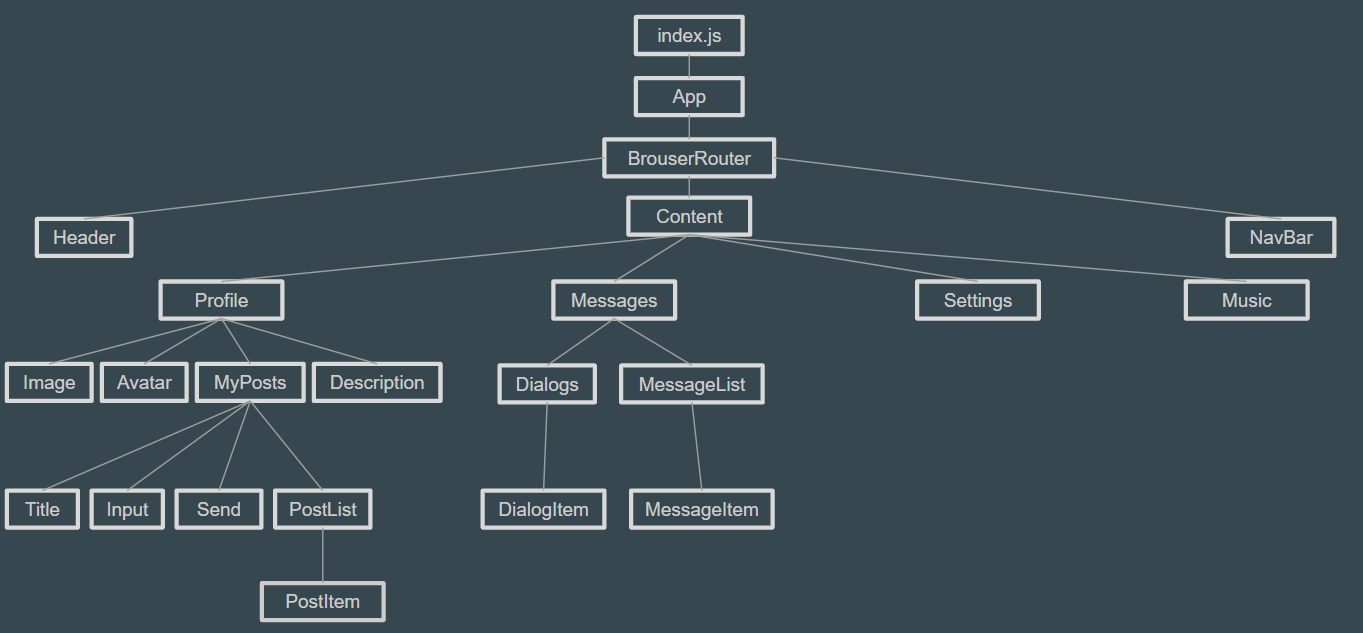
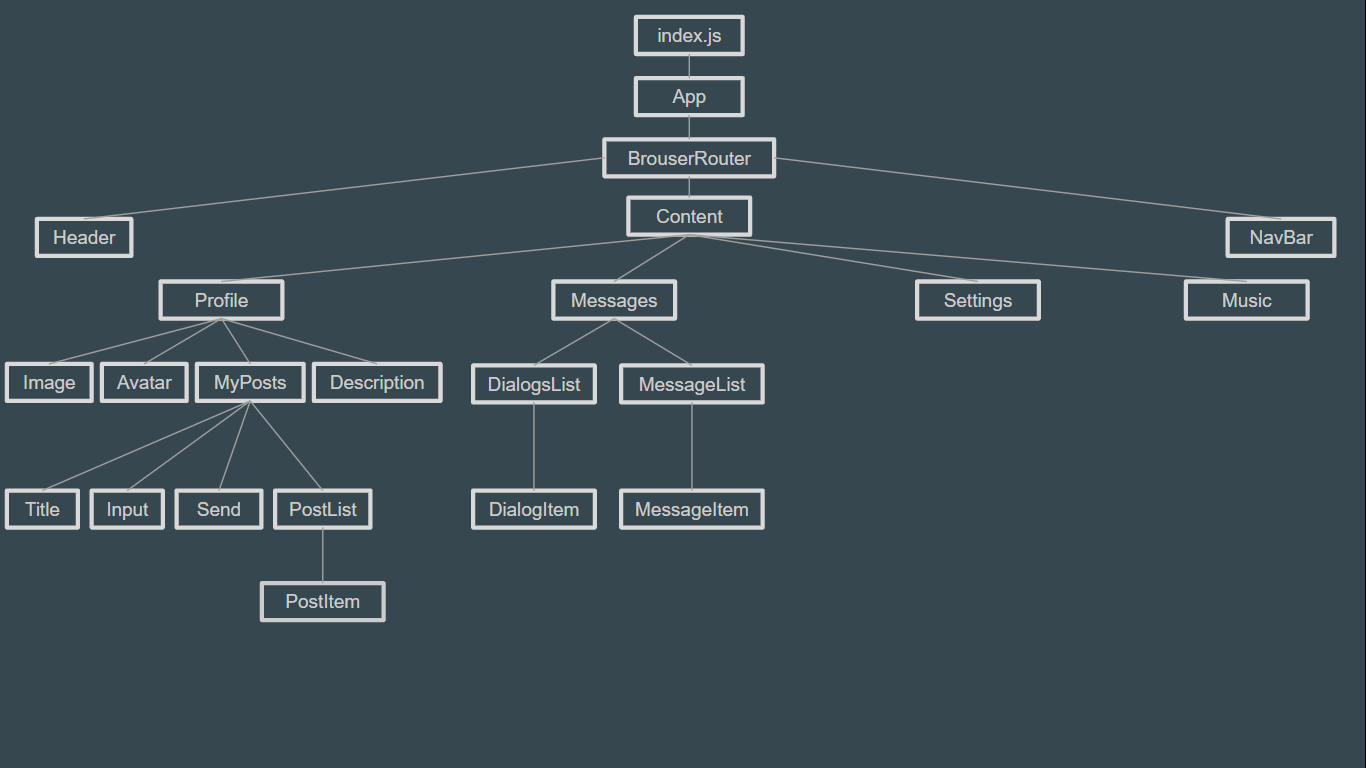
Move data to index.js

diff --git a/src/components/Content/Content.jsx b/src/components/Content/Content.jsx
@@ -1,20 +1,19 @@
 import React from "react"
 import m from "./Content.module.css"
-import Profile from "./Profile/Profile";
-import {Route} from "react-router-dom";
-import Dialogs from "./Messages/DialogsList/DialogsList";
-import Settings from "./Settings/Settings";
-import Music from "./Music/Music";
-import Messages from "./Messages/Messages";
+import Profile from "./Profile/Profile"
+import {Route} from "react-router-dom"
+import Settings from "./Settings/Settings"
+import Music from "./Music/Music"
+import Messages from "./Messages/Messages"
 
 
-const Content = () => {
+const Content = (props) => {
     return (
         <div className={m.content}>
-            <Route exact path='/profile' component={Profile}/>
-            <Route exact path='/messages' component={Messages}/>
-            <Route exact path='/settings' component={Settings}/>
-            <Route exact path='/music' component={Music}/>
+            <Route exact path='/profile' render={() => <Profile posts={props.posts}/>}/>
+            <Route exact path='/messages' render={() => <Messages dialogs={props.dialogs} messages={props.messages}/>}/>
+            <Route exact path='/settings' render={() => <Settings/>}/>
+            <Route exact path='/music' render={() => <Music/>}/>
         </div>
     )
 }

diff --git a/src/index.js b/src/index.js
@@ -1,12 +1,31 @@
-import React from 'react';
-import ReactDOM from 'react-dom';
-import './index.css';
-import App from './App';
-import * as serviceWorker from './serviceWorker';
+import React from 'react'
+import ReactDOM from 'react-dom'
+import './index.css'
+import App from './App'
+import * as serviceWorker from './serviceWorker'
 
-ReactDOM.render(<App />, document.getElementById('root'));
+let dialogsArr = [
+    {id: 1, name: 'Dima'},
+    {id: 2, name: 'Ilia'},
+    {id: 3, name: 'Maxik'},
+    {id: 4, name: 'Danik'},
+    {id: 5, name: 'Kiril'}
+]
+
+let messagesArr = [
+    {id: 1, message: 'Hello World'},
+    {id: 2, message: 'How are you?'},
+    {id: 3, message: 'What is your name?'}
+]
+
+let postsData = [
+    {id: 1, message: 'Hello World!!!'},
+    {id: 2, message: 'I am Dima Hinev'}
+]
+
+ReactDOM.render(<App dialogs={dialogsArr} messages={messagesArr} posts={postsData}/>, document.getElementById('root'))
 
 // If you want your app to work offline and load faster, you can change
 // unregister() to register() below. Note this comes with some pitfalls.
 // Learn more about service workers: https://bit.ly/CRA-PWA
-serviceWorker.unregister();
+serviceWorker.unregister()

diff --git a/src/components/Content/Profile/MyPosts/MyPosts.jsx b/src/components/Content/Profile/MyPosts/MyPosts.jsx
@@ -4,23 +4,16 @@ import PostItem from "./PostList/Post/PostItem";
 import Title from "./Title/Title";
 import Input from "./Input/Input";
 import Send from "./Send/Send";
+import PostList from './PostList/PostList'
 
-const MyPosts = () => {
-    let postsData = [
-        {id: 1, message: 'Hello World!!!'},
-        {id: 2, message: 'I am Dima Hinev'}
-    ]
-
-    let posts = postsData.map(
-        e => <PostItem message={e.message} id={e.id}/>
-    )
+const MyPosts = (props) => {
     return (
         <React.Fragment>
             <Title/>
             <Input/>
             <Send/>
             <div className={m.posts}>
-                {posts}
+               <PostList content={props.posts}/>
             </div>
         </React.Fragment>
     )

diff --git a/src/components/Content/Profile/Profile.jsx b/src/components/Content/Profile/Profile.jsx
@@ -1,17 +1,17 @@
 import React from "react"
-import MyPosts from "./MyPosts/MyPosts";
-import Image from "./Image/Image";
-import Avatar from "./Avatar/Avatar";
-import Description from "./Description/Description";
+import MyPosts from "./MyPosts/MyPosts"
+import Image from "./Image/Image"
+import Avatar from "./Avatar/Avatar"
+import Description from "./Description/Description"
 import m from './Profile.module.css'
 
-const Profile = () => {
+const Profile = (props) => {
     return (
         <div className={m.content}>
             <Image/>
             <Avatar/>
             <Description user_name='Dima Hinev'/>
-            <MyPosts/>
+            <MyPosts posts={props.posts}/>
         </div>
 
     )

diff --git a/src/App.js b/src/App.js
@@ -3,15 +3,15 @@ import "./App.css"
 import Header from "./components/Header/Header"
 import Navbar from "./components/Navbar/Navbar"
 import {BrowserRouter} from "react-router-dom"
-import Content from "./components/Content/Content";
+import Content from "./components/Content/Content"
 
-const App = () => {
+const App = (props) => {
     return (
         <BrowserRouter>
             <div className="App">
                 <Header/>
                 <Navbar/>
-                <Content/>
+                <Content dialogs={props.dialogs} messages={props.messages} posts={props.posts}/>
             </div>
         </BrowserRouter>
     )

diff --git a/src/components/Content/Messages/Messages.jsx b/src/components/Content/Messages/Messages.jsx
@@ -3,11 +3,13 @@ import m from './Messages.module.css'
 import {NavLink} from "react-router-dom";
 import Dialogs from "./DialogsList/DialogsList";
 import MessageList from "./MessageList/MessageList";
-const Messages = () => {
+import DialogItem from "./DialogsList/DialogItem/DialogItem";
+import MessageItem from "./MessageList/MessageItem/MessageItem";
+const Messages = (props) => {
     return (
         <div className={m.messages}>
-            <Dialogs/>
-            <MessageList/>
+            <Dialogs content={props.dialogs}/>
+            <MessageList content={props.messages}/>
         </div>
     )
 }

diff --git a/src/components/Content/Messages/DialogsList/DialogsList.jsx b/src/components/Content/Messages/DialogsList/DialogsList.jsx
@@ -3,17 +3,11 @@ import m from './DialogsList.module.css'
 import DialogItem from "./DialogItem/DialogItem";
 
 
-const Dialogs = () => {
-    let dialogsArr = [
-        {id: 1, name: 'Dima'},
-        {id: 2, name: 'Ilia'},
-        {id: 3, name: 'Maxik'},
-        {id: 4, name: 'Danik'},
-        {id: 5, name: 'Kiril'}
-    ]
-    let dialogs = dialogsArr.map(
+const Dialogs = (props) => {
+    let dialogs = props.content.map(
         dialog => <DialogItem name={dialog.name} index={dialog.id}/>
     )
+
     return (
         <div className={m.dialogs_list}>
             {dialogs}

diff --git a/src/components/Content/Messages/MessageList/MessageList.jsx b/src/components/Content/Messages/MessageList/MessageList.jsx
@@ -2,14 +2,8 @@ import React from "react";
 import m from './MessageList.module.css'
 import MessageItem from "./MessageItem/MessageItem";
 
-const MessageList = () => {
-    let messagesArr = [
-        {id: 1, message: 'Hello World'},
-        {id: 2, message: 'How are you?'},
-        {id: 3, message: 'What is your name?'}
-    ]
-
-    let messages = messagesArr.map(
+const MessageList = (props) => {
+    let messages = props.content.map(
         element => <MessageItem message={element.message} id={element.id}/>
     )
     return (

diff --git a/src/components/Content/Profile/MyPosts/PostList/PostList.jsx b/src/components/Content/Profile/MyPosts/PostList/PostList.jsx
@@ -1,14 +1,9 @@
 import React from "react"
 import m from './PostList.module.css'
-import PostItem from "./Post/PostItem";
+import PostItem from "./Post/PostItem"
 
-const PostList = () => {
-    let postsData = [
-        {id: 1, message: 'Hello World!!!'},
-        {id: 2, message: 'I am Dima Hinev'}
-    ]
-
-    let posts = postsData.map(
+const PostList = (props) => {
+    let posts = props.content.map(
         e => <PostItem message={e.message} id={e.id}/>
     )
     return (
